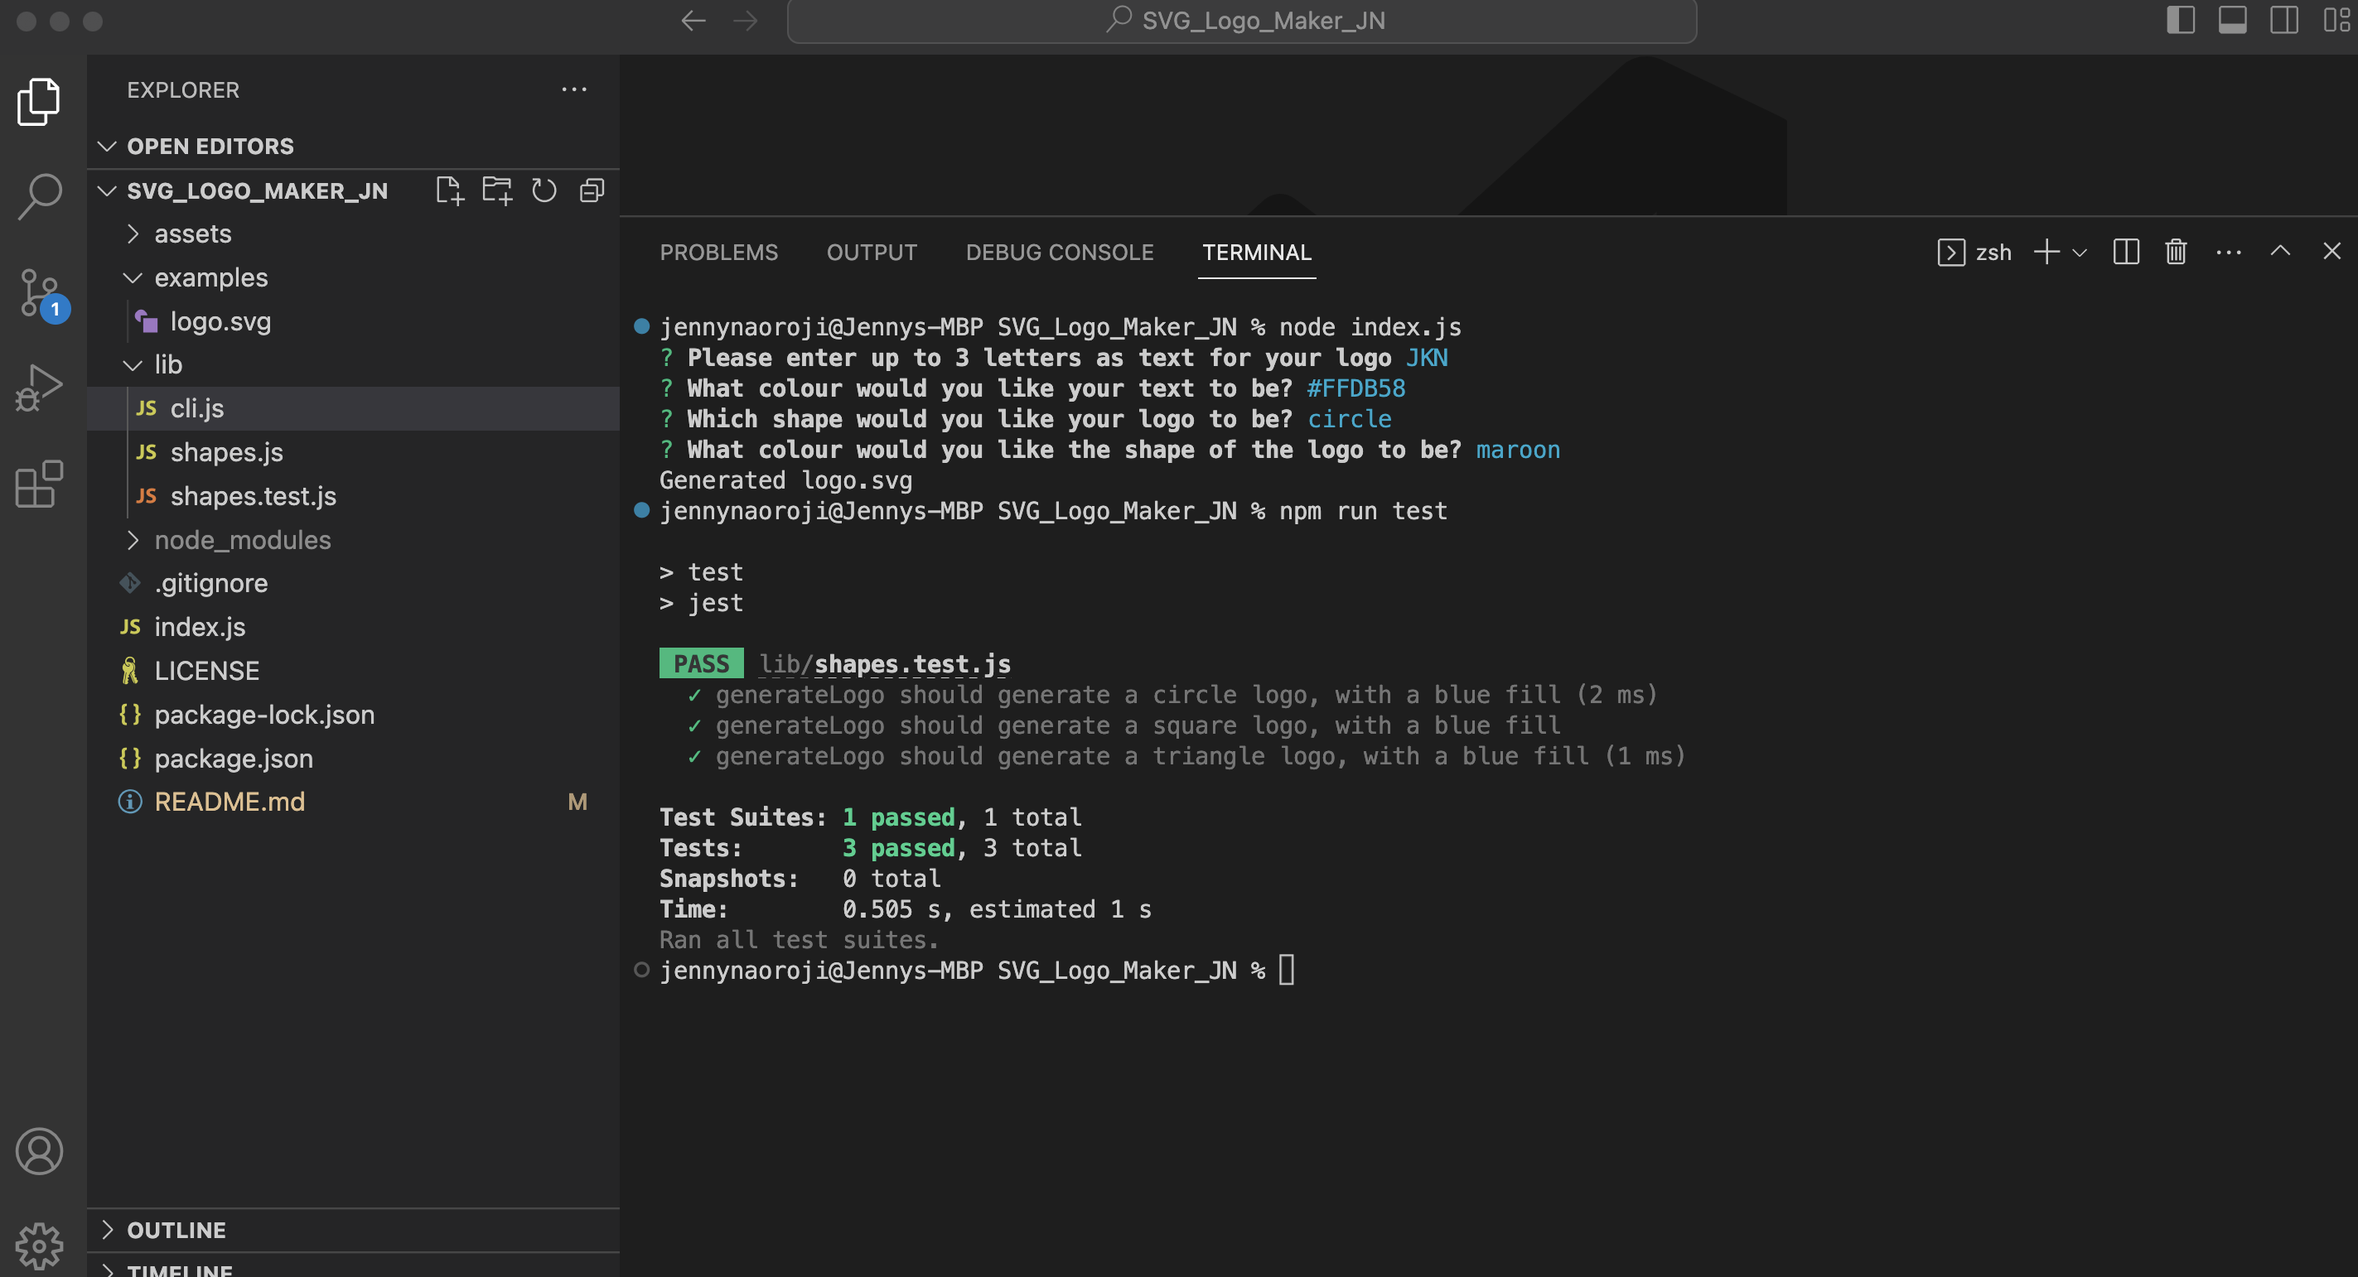
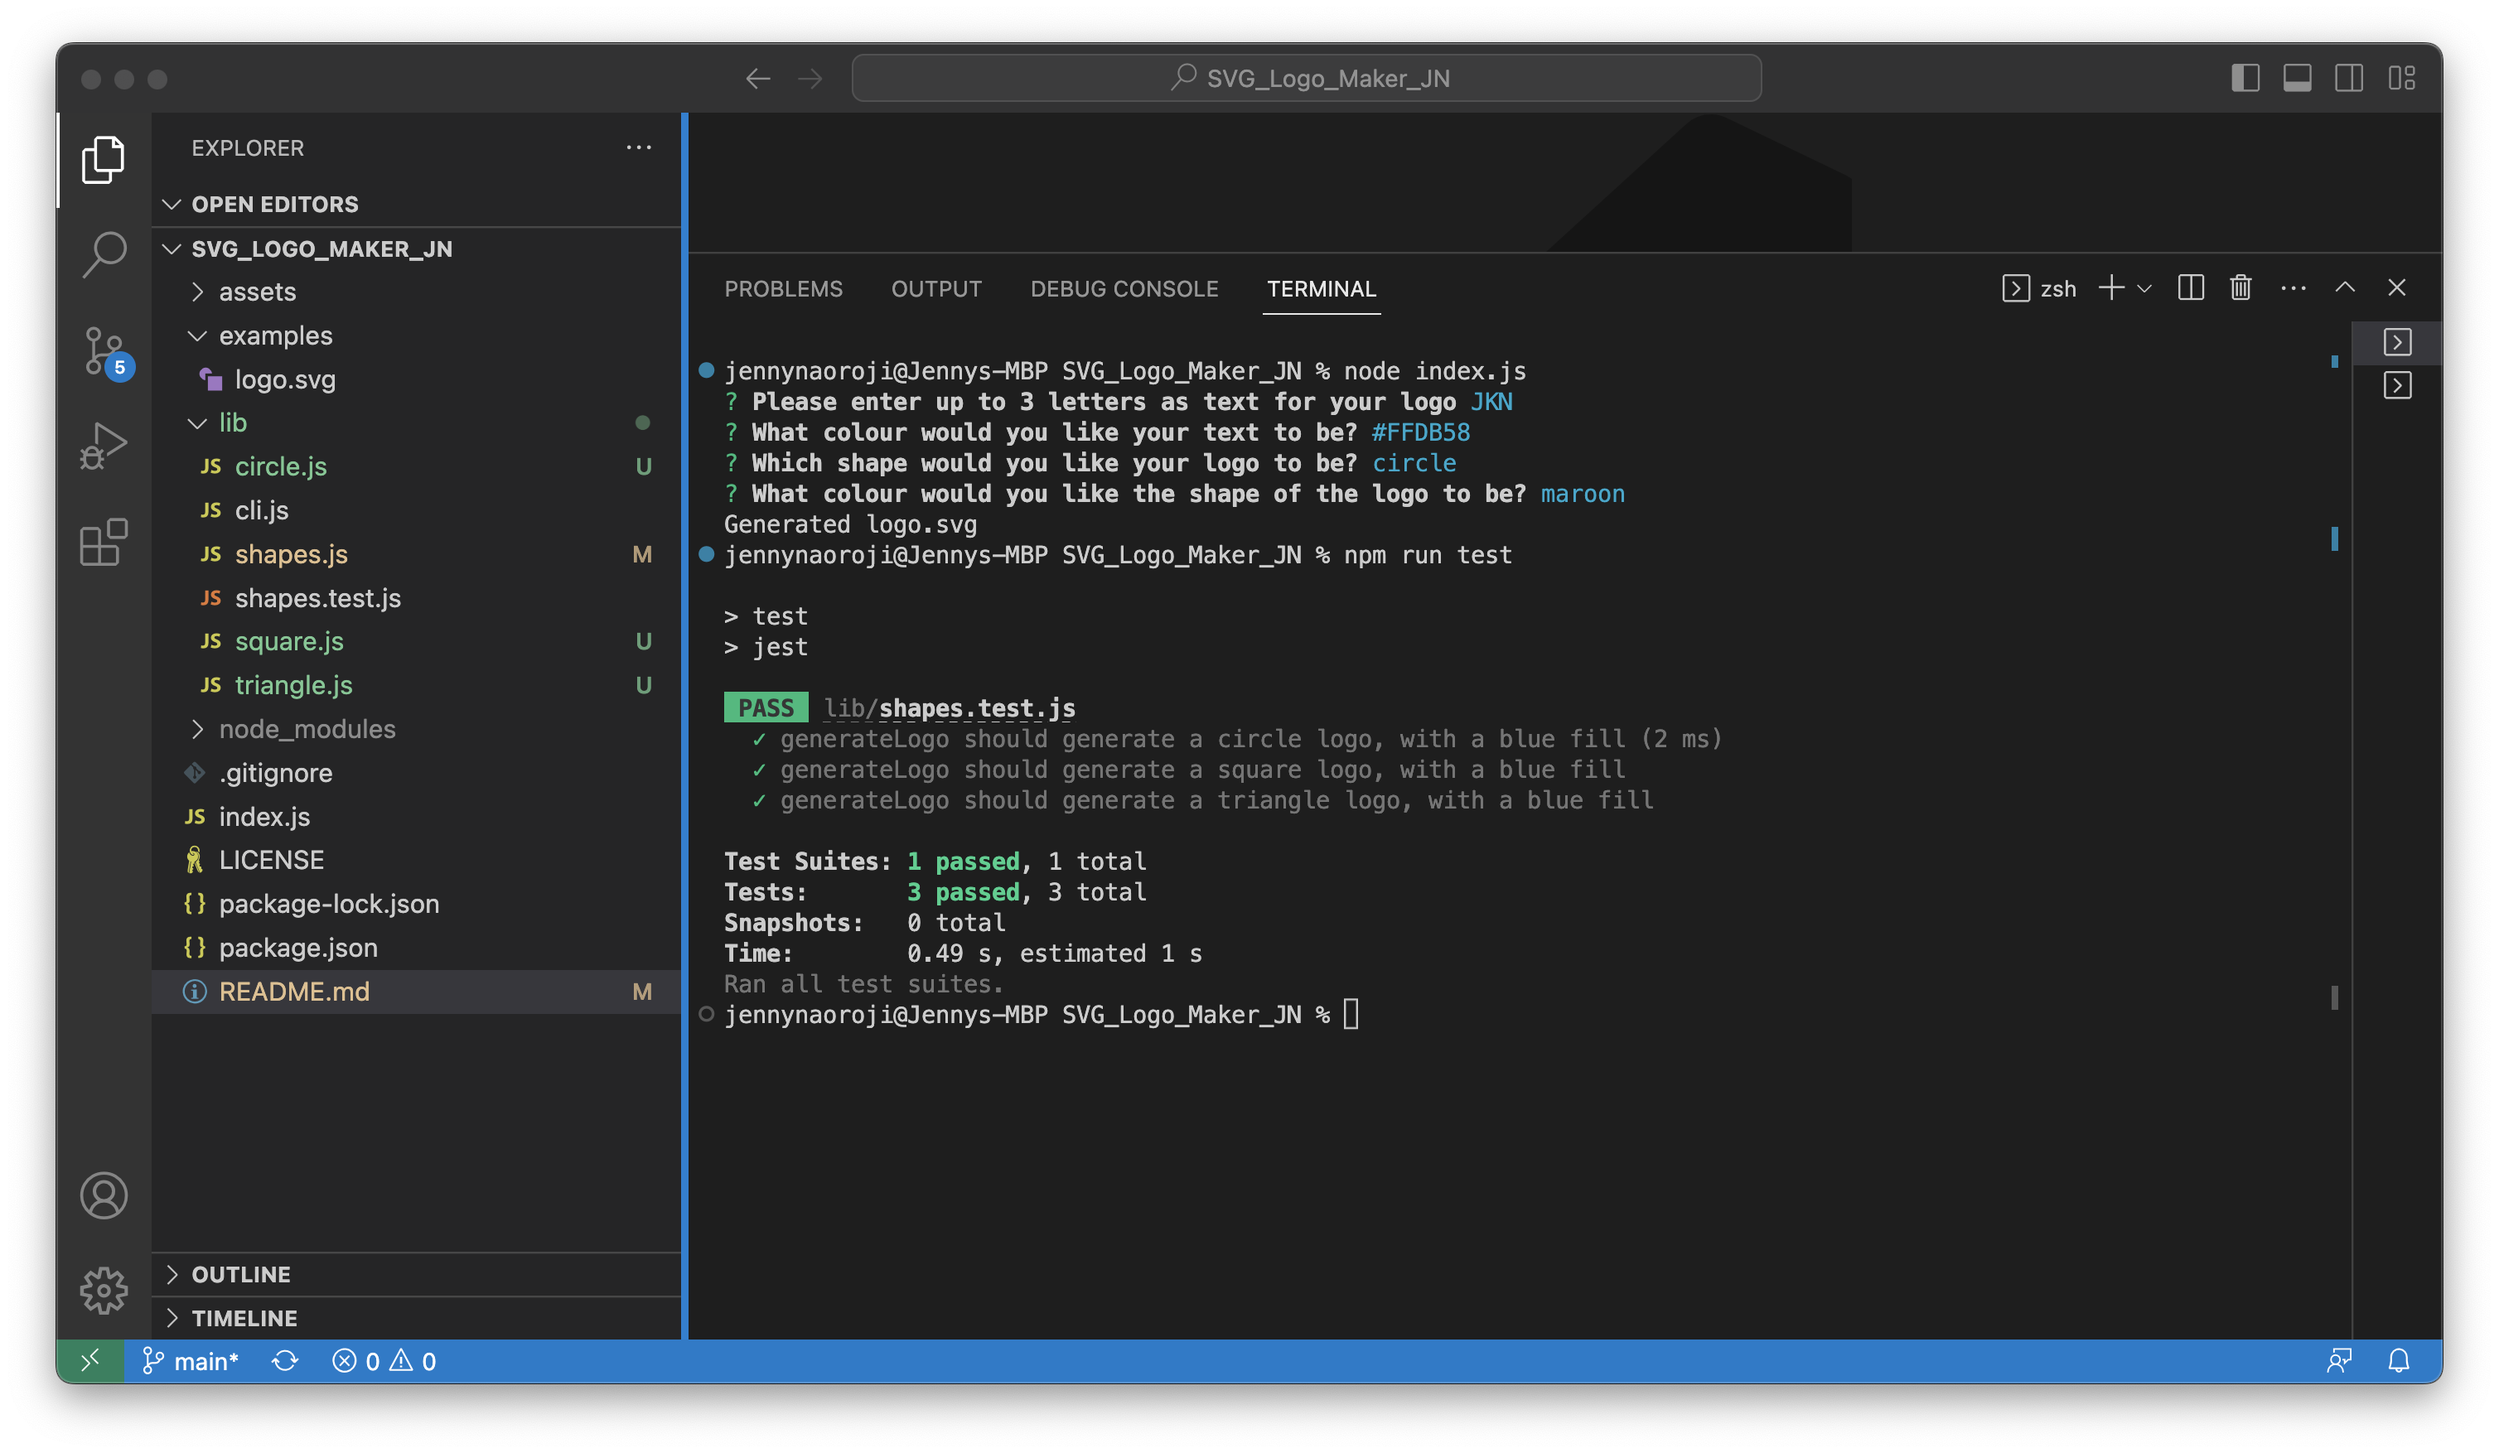
screenshot and video changed and updated in readme file, exported and changed shapes classes to be separate files

Changed region(s): [[0.0, 0.0, 1.0, 1.0], [0.8039, 0.1868, 0.9276, 0.2179]]

diff --git a/lib/shapes.js b/lib/shapes.js
@@ -1,3 +1,7 @@
+const Circle = require('./circle');
+const Square = require('./square');
+const Triangle = require('./triangle');
+
 // function that checks the value of 'shape' property and calls appropriate class helper function
 //returns a svg logo string
 function generateLogo({text, textC, shape, logoC}) {
@@ -14,60 +18,6 @@ function generateLogo({text, textC, shape, logoC}) {
         svgLogo = triangle.generateSvgLogo({text, textC, logoC});
     }    
     return svgLogo;
-}
-// class circle      
-class Circle {
-    constructor() {
-        this.text = '';
-        this.textC = '';
-        this.shapeC = '';
-    }
-  
-    generateSvgLogo({ text, textC,logoC}) {
-        return `<svg version="1.1" width="300" height="200" xmlns="http://www.w3.org/2000/svg">
-      
-        <circle cx="150" cy="100" r="80" fill="${logoC}" />
-          
-        <text x="150" y="125" font-size="60" text-anchor="middle" fill="${textC}">${text}</text>
-          
-        </svg>`
-    }
-  }
-// class square
-class Square {
-    constructor() {
-        this.text = '';
-        this.textC = '';
-        this.shapeC = '';
-    }
-
-    generateSvgLogo({ text, textC,logoC}) {
-    return `<svg version="1.1" width="300" height="200" xmlns="http://www.w3.org/2000/svg">
-    
-    <rect width="200" height="200" fill="${logoC}" />
-      
-    <text x="100" y="100" dominant-baseline="middle" text-anchor="middle" fill="${textC}" font-size="48">${text}</text>
-      
-    </svg>`
-}
-}
-//class triangle
-class Triangle {
-    constructor() {
-        this.text = '';
-        this.textC = '';
-        this.shapeC = '';
-    }
-
-    generateSvgLogo ({ text, textC,logoC}){
-    return `<svg version="1.1" width="300" height="200" xmlns="http://www.w3.org/2000/svg">
-    
-    <polygon points="150,18 244,182 56,182" fill="${logoC}" />
-      
-    <text x="150" y="130" dominant-baseline="middle" text-anchor="middle" fill="${textC}" font-size="48">${text}</text>  
-    
-    </svg>`
-};
 }
 
 module.exports = {generateLogo};

diff --git a/lib/circle.js b/lib/circle.js
@@ -1,0 +1,21 @@
+// class circle      
+class Circle {
+    constructor() {
+        this.text = '';
+        this.textC = '';
+        this.shapeC = '';
+    }
+  
+    generateSvgLogo({ text, textC,logoC}) {
+        return `<svg version="1.1" width="300" height="200" xmlns="http://www.w3.org/2000/svg">
+      
+        <circle cx="150" cy="100" r="80" fill="${logoC}" />
+          
+        <text x="150" y="125" font-size="60" text-anchor="middle" fill="${textC}">${text}</text>
+          
+        </svg>`
+    }
+  }
+
+module.exports = Circle;
+

diff --git a/lib/triangle.js b/lib/triangle.js
@@ -1,0 +1,21 @@
+//class triangle
+class Triangle {
+    constructor() {
+        this.text = '';
+        this.textC = '';
+        this.shapeC = '';
+    }
+
+    generateSvgLogo ({ text, textC,logoC}){
+    return `<svg version="1.1" width="300" height="200" xmlns="http://www.w3.org/2000/svg">
+    
+    <polygon points="150,18 244,182 56,182" fill="${logoC}" />
+      
+    <text x="150" y="130" dominant-baseline="middle" text-anchor="middle" fill="${textC}" font-size="48">${text}</text>  
+    
+    </svg>`
+};
+}
+
+module.exports = Triangle;
+

diff --git a/lib/square.js b/lib/square.js
@@ -1,0 +1,21 @@
+// class square
+class Square {
+    constructor() {
+        this.text = '';
+        this.textC = '';
+        this.shapeC = '';
+    }
+
+    generateSvgLogo({ text, textC,logoC}) {
+    return `<svg version="1.1" width="300" height="200" xmlns="http://www.w3.org/2000/svg">
+    
+    <rect width="200" height="200" fill="${logoC}" />
+      
+    <text x="100" y="100" dominant-baseline="middle" text-anchor="middle" fill="${textC}" font-size="48">${text}</text>
+      
+    </svg>`
+}
+}
+
+module.exports = Square;
+

diff --git a/README.md b/README.md
@@ -31,7 +31,7 @@ The following screenshot shows an example of a dynamically generated logo.svg ba
 
 
 Here is a link to the walkthrough video that demonstrates the functionality of the SVG logo generator:
-https://youtu.be/u3T4Gq4Z9FM
+https://youtu.be/yh5xZdkfQD0
 
 
 
